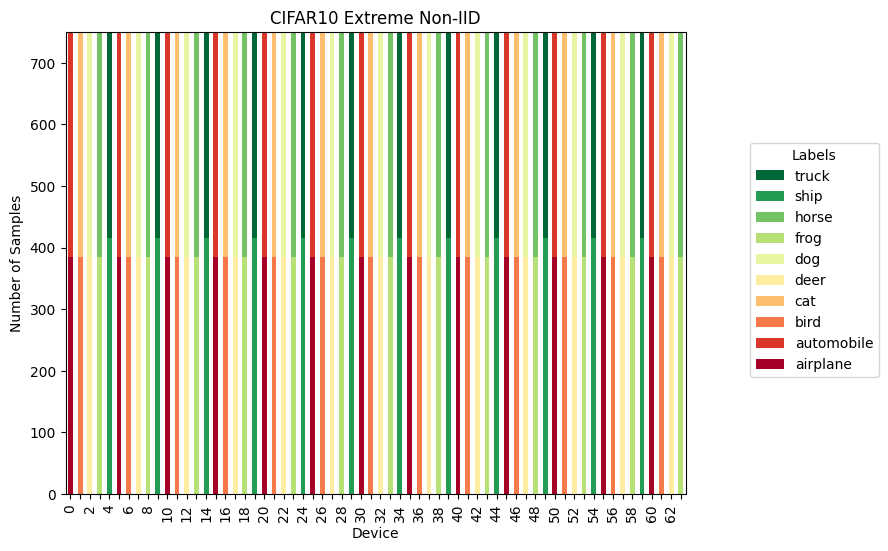
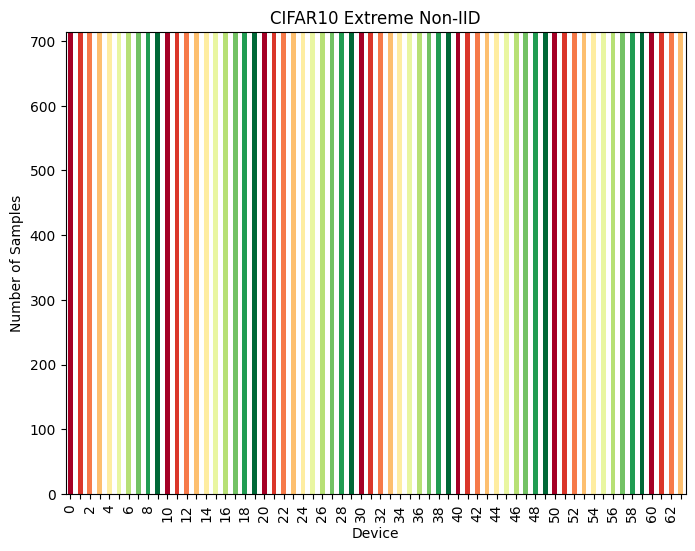
docs: update experiment specifications

diff --git a/experiments/README.md b/experiments/README.md
@@ -3,7 +3,7 @@
 ## 1. Configuration
 
   - Host: AMD EPYC 7B12 2.25 GHz, 128 GB DDR4 2666 MHz (64 bit)
-  - Server: 2.0 GHz, 2 GB, 1 Gbps
+  - Server: 2.0 GHz, 4 GB, 1 Gbps
   - Dataset: CIFAR-10 (Train size: 50000 / Test size: 10000)
   - Partitions: 64
   - Model: CNN3
@@ -15,13 +15,13 @@
 
 ## 2. Data Partitioning Strategies
 
-### IID
+### 2.1 IID
 
 IID partitioner:
 
   ![IID Partitioning](./images/CIFAR10-IID.png)
 
-### Non-IID
+### 2.2 Non-IID
 
 Pathological partitioner with:
 
@@ -30,20 +30,18 @@ Pathological partitioner with:
 
   ![Non-IID Partitioning](./images/CIFAR10-Non-IID.png)
 
-### Extreme Non-IID
+### 2.3 Extreme Non-IID
 
 Pathological partitioner with:
 
-  - Classes per partition: 2
+  - Classes per partition: 1
   - Class assignment mode: deterministic
 
   ![Extreme Non-IID](./images/CIFAR10-Extreme-Non-IID.png)
 
 # Experiment Specifications
 
-## 1. Resources
-
-### 1.1 Device Allocation
+## 1 Baseline
 
 #### 1.1.1
 
@@ -53,64 +51,131 @@ Pathological partitioner with:
 
 #### 1.1.2
 
+  - Devices: 8 × Raspberry Pi 4 (1.5 GHz, 4 GB)
+  - Bandwidth: 1 Gbps
+  - Partitioning: IID
+
+## 2. Resources
+
+### 2.1 Device Allocation
+
+#### 2.1.1
+
+  - Devices: 8 × Raspberry Pi 3 (1.2 GHz, 1 GB)
+  - Bandwidth: 100 Mbps
+  - Partitioning: IID
+
+#### 2.1.2
+
   - Devices: 16 × Raspberry Pi 3 (1.2 GHz, 1 GB)
   - Bandwidth: 100 Mbps
   - Partitioning: IID
 
-#### 1.1.3
+#### 2.1.3
 
   - Devices: 32 × Raspberry Pi 3 (1.2 GHz, 1 GB)
   - Bandwidth: 100 Mbps
   - Partitioning: IID
 
-#### 1.1.4
+#### 2.1.4
 
   - Devices: 64 × Raspberry Pi 3 (1.2 GHz, 1 GB)
   - Bandwidth: 100 Mbps
   - Partitioning: IID
 
-### 1.2 Network Bandwidth
+### 2.2 Network Bandwidth
 
-#### 1.2.1
-
-  - Devices: 32 × Raspberry Pi 3 (1.2 GHz, 1 GB)
-  - Bandwidth: 50 Mbps
-  - Partitioning: IID
-
-#### 1.2.2
+#### 2.2.1
 
   - Devices: 32 × Raspberry Pi 3 (1.2 GHz, 1 GB)
   - Bandwidth: 25 Mbps
   - Partitioning: IID
 
-## 2. Heterogeneity
+#### 2.2.2
 
-### 2.1 Device Heterogeneity
- 
-#### 2.1.1
+  - Devices: 32 × Raspberry Pi 3 (1.2 GHz, 1 GB)
+  - Bandwidth: 50 Mbps
+  - Partitioning: IID
+
+#### 2.2.3
+
+  - Devices: 32 × Raspberry Pi 3 (1.2 GHz, 1 GB)
+  - Bandwidth: 100 Mbps
+  - Partitioning: IID
+
+## 3. Heterogeneity
+
+### 3.1 Device Heterogeneity
+
+#### 3.1.1
+
+  - Devices: 4 × Raspberry Pi 3 (1.2 GHz, 1 GB)
+  - Devices: 4 × Raspberry Pi 4 (1.5 GHz, 4 GB)
+  - Bandwidth: 100 Mbps
+  - Partitioning: IID
+
+#### 3.1.2
+
+  - Devices: 8 × Raspberry Pi 3 (1.2 GHz, 1 GB)
+  - Devices: 8 × Raspberry Pi 4 (1.5 GHz, 4 GB)
+  - Bandwidth: 100 Mbps
+  - Partitioning: IID
+
+#### 3.1.3
 
   - Devices: 16 × Raspberry Pi 3 (1.2 GHz, 1 GB)
   - Devices: 16 × Raspberry Pi 4 (1.5 GHz, 4 GB)
-  - Bandwidth: 100 Mbps (Raspberry Pi 3)
-  - Bandwidth: 1 Gbps (Raspberry Pi 4)
+  - Bandwidth: 100 Mbps
   - Partitioning: IID
 
-#### 2.1.2
+### 3.2 Data Heterogeneity - Non-IID
 
-  - Devices: 32 × Raspberry Pi 4 (1.5 GHz, 4 GB)
-  - Bandwidth: 1 Gbps (Raspberry Pi 4)
-  - Partitioning: IID
+#### 3.2.1
 
-### 2.2 Data Heterogeneity
-
-#### 2.2.1
-
-  - Devices: 32 × Raspberry Pi 4 (1.5 GHz, 4 GB)
-  - Bandwidth: 1 Gbps
+  - Devices: 8 × Raspberry Pi 3 (1.2 GHz, 1 GB)
+  - Bandwidth: 100 Mbps
   - Partitioning: Non-IID
 
-#### 2.2.2
-  
-  - Devices: 32 × Raspberry Pi 4 (1.5 GHz, 4 GB)
-  - Bandwidth: 1 Gbps
+#### 3.2.2
+
+  - Devices: 16 × Raspberry Pi 3 (1.2 GHz, 1 GB)
+  - Bandwidth: 100 Mbps
+  - Partitioning: Non-IID
+
+#### 3.2.3
+
+  - Devices: 32 × Raspberry Pi 3 (1.2 GHz, 1 GB)
+  - Bandwidth: 100 Mbps
+  - Partitioning: Non-IID
+
+#### 3.2.4
+
+  - Devices: 64 × Raspberry Pi 3 (1.2 GHz, 1 GB)
+  - Bandwidth: 100 Mbps
+  - Partitioning: Non-IID
+
+### 3.3 Data Heterogeneity - Extreme Non-IID
+
+#### 3.3.1
+
+  - Devices: 8 × Raspberry Pi 3 (1.2 GHz, 1 GB)
+  - Bandwidth: 100 Mbps
+  - Partitioning: Extreme Non-IID
+
+#### 3.3.2
+
+  - Devices: 16 × Raspberry Pi 3 (1.2 GHz, 1 GB)
+  - Bandwidth: 100 Mbps
+  - Partitioning: Extreme Non-IID
+
+#### 3.3.3
+
+  - Devices: 32 × Raspberry Pi 3 (1.2 GHz, 1 GB)
+  - Bandwidth: 100 Mbps
+  - Partitioning: Extreme Non-IID
+
+#### 3.3.4
+
+  - Devices: 64 × Raspberry Pi 3 (1.2 GHz, 1 GB)
+  - Bandwidth: 100 Mbps
   - Partitioning: Extreme Non-IID
